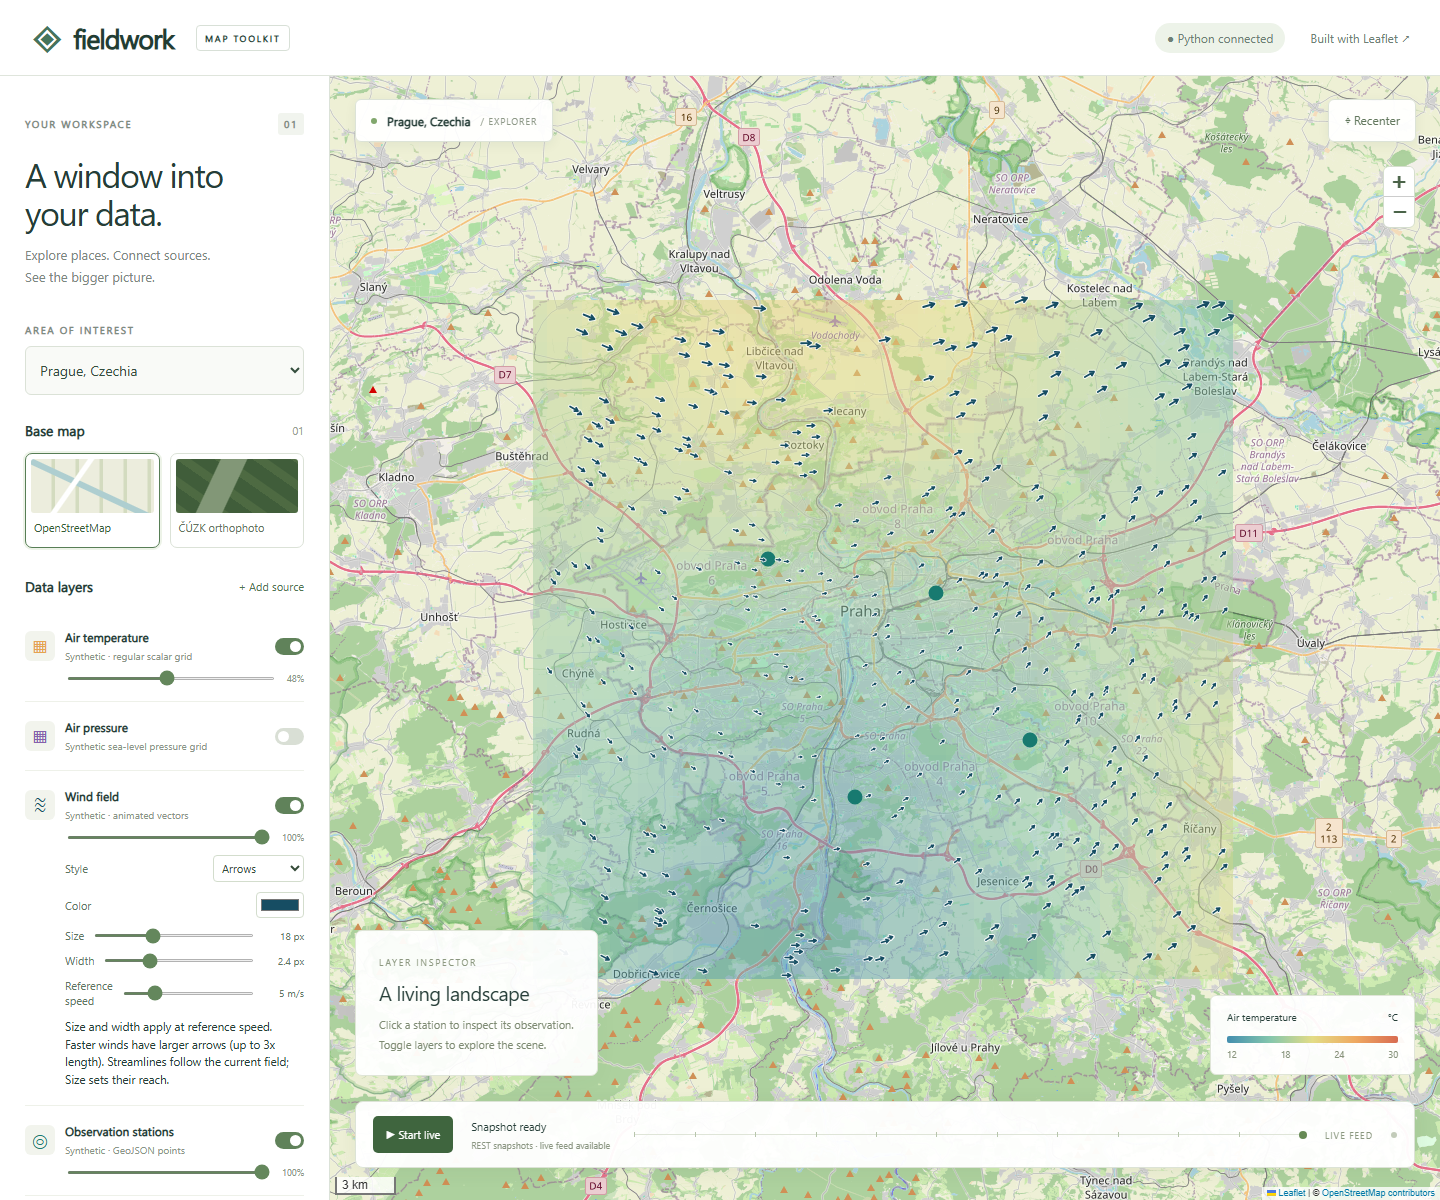
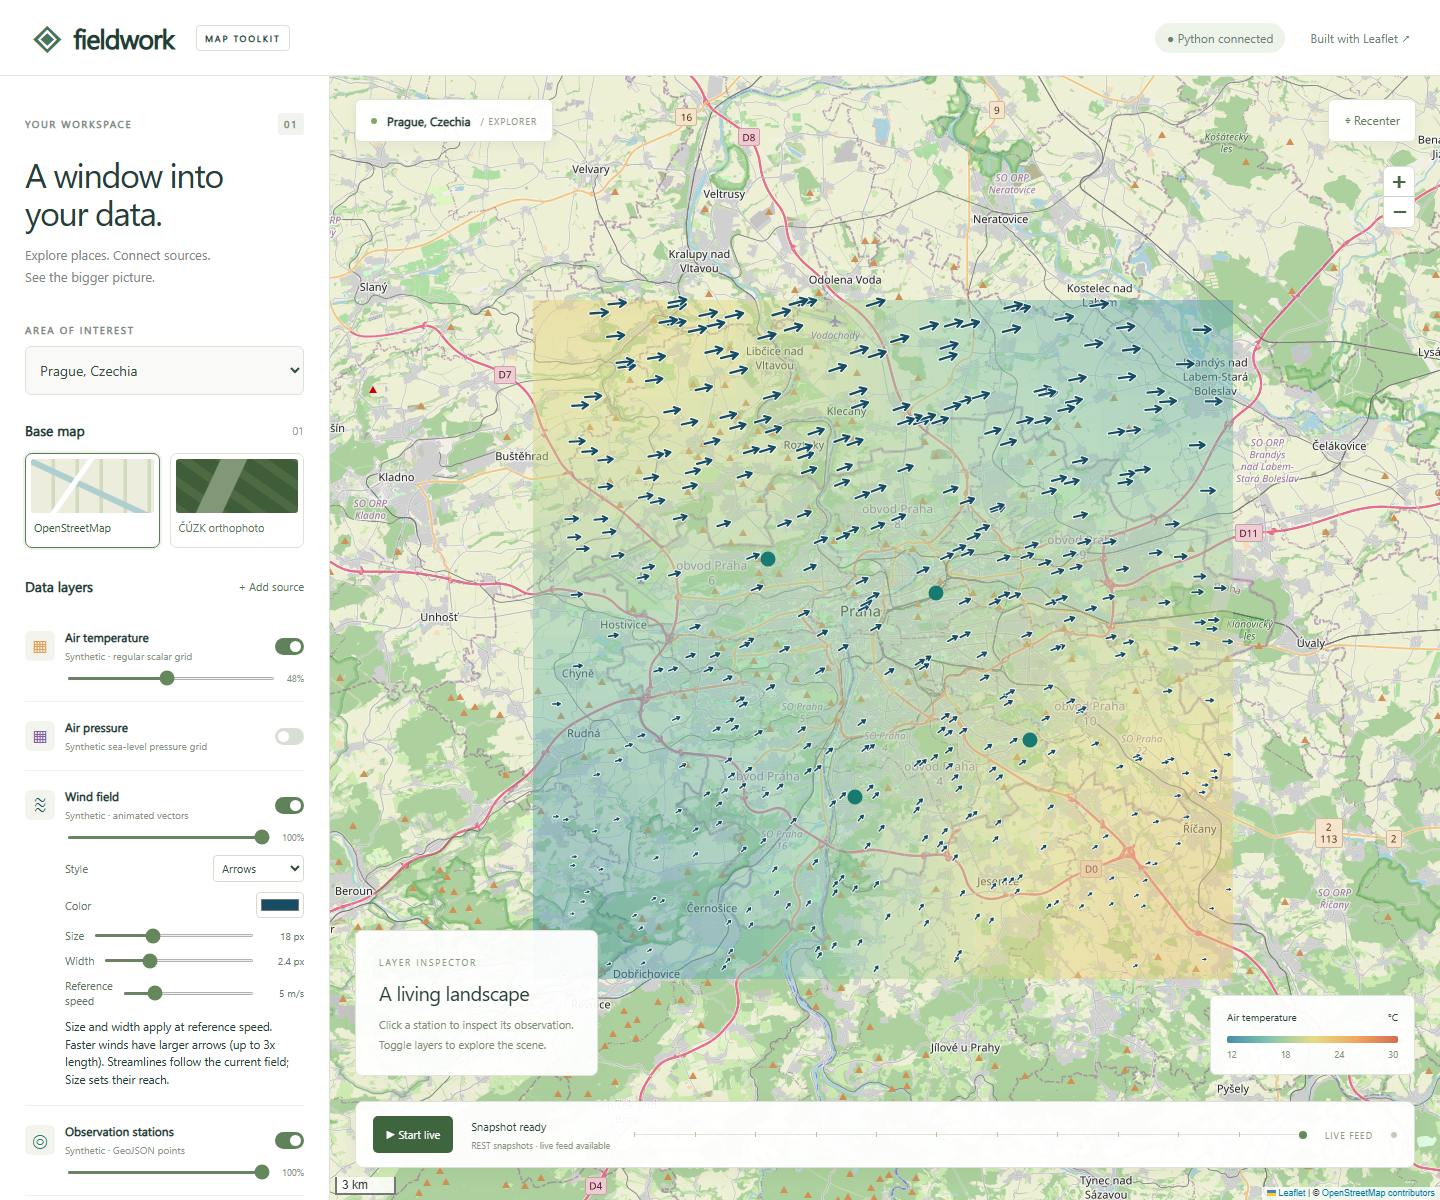
Add configurable map-only embedding and example page

diff --git a/static/app.js b/static/app.js
@@ -1,8 +1,8 @@
 import { createLayer, kmlToGeoJSON } from "./toolkit.js";
 const $ = (s) => document.querySelector(s),
   map = L.map("map", { zoomControl: false }).setView([50.0755, 14.4378], 11);
-L.control.zoom({ position: "topright" }).addTo(map);
-L.control.scale({ position: "bottomleft", imperial: false }).addTo(map);
+const zoomControl = L.control.zoom({ position: "topright" }).addTo(map);
+const scaleControl = L.control.scale({ position: "bottomleft", imperial: false }).addTo(map);
 let config,
   locationId,
   base,
@@ -52,7 +52,7 @@ function summaries() {
     for(let i=0;i<4;i++){const label=document.createElement("span");label.textContent=Math.round(range[0]+(range[1]-range[0])*i/3);labels.append(label);}
     section.append(title,gradient,labels);legend.append(section);
   }
-  legend.hidden = !legend.children.length;
+  legend.hidden = config.ui?.legend === false || !legend.children.length;
 }
 function render(s, data) {
   const next = createLayer(s.def, data, inspect);
@@ -242,6 +242,7 @@ async function select() {
   }
   await Promise.all([...states.values()].map((s) => load(s)));
   $("#update").textContent = "Snapshot ready";
+  if (config.live && backend) $("#stream").click();
 }
 $("#stream").onclick = () => {
   if (events) {
@@ -316,11 +317,26 @@ $("#source-form").onsubmit = (e) => {
     notice(err.message);
   }
 };
+function applyUI() {
+  const embed = new URLSearchParams(location.search).get("embed") === "1";
+  const ui = {header: true, sidebar: true, location: true, recenter: true, inspector: true, toolbar: true, legend: true, zoom: true, scale: true, ...config.ui};
+  if (embed) for (const key of ["header", "sidebar", "location", "recenter", "inspector", "toolbar", "legend"]) ui[key] = false;
+  config.ui = ui;
+  for (const [key, selector] of Object.entries({header:"header", sidebar:"aside", location:".map-title", recenter:"#fit", inspector:".map-caption", toolbar:".timeline", legend:"#legend"})) $(selector).hidden = !ui[key];
+  document.body.classList.toggle("no-header", !ui.header);
+  document.body.classList.toggle("no-sidebar", !ui.sidebar);
+  document.body.classList.toggle("no-toolbar", !ui.toolbar);
+  if (!ui.zoom) map.removeControl(zoomControl);
+  if (!ui.scale) map.removeControl(scaleControl);
+  map.invalidateSize();
+}
 async function init() {
   try {
-    const r = await fetch("config.json");
+    const configURL = new URLSearchParams(location.search).get("config") || "config.json";
+    const r = await fetch(configURL);
     if (!r.ok) throw Error("Could not read config.json");
     config = await r.json();
+    applyUI();
     try {
       const p = await fetch("api/config");
       backend =
@@ -352,7 +368,9 @@ async function init() {
       };
       $("#basemaps").append(b);
     }
-    chooseBase(config.basemaps[0]);
+    if (config.initialLocation) $("#location").value = config.initialLocation;
+    if (!$("#location").value) throw Error("Unknown initialLocation or empty locations");
+    chooseBase(config.basemaps.find(b=>b.id===config.initialBasemap) || config.basemaps[0]);
     for (const d of config.layers) add({ ...d });
     await select();
   } catch (e) {

diff --git a/examples/embed.html b/examples/embed.html
@@ -1,0 +1,25 @@
+<!doctype html>
+<html lang="en">
+<head>
+<meta charset="utf-8"><meta name="viewport" content="width=device-width,initial-scale=1">
+<title>Embed Fieldwork in your page</title>
+<style>
+body {margin:0;background:#f5f7f1;color:#263e38;font:16px system-ui,sans-serif}
+main {max-width:1100px;margin:40px auto;padding:0 20px}
+h1 {font-size:30px;font-weight:550} p {line-height:1.6}
+iframe {width:100%;height:560px;border:1px solid #d3ddcd;border-radius:12px;background:#e8eddf;display:block}
+pre {overflow:auto;padding:18px;background:white;border:1px solid #d3ddcd;border-radius:8px;font-size:13px}
+</style>
+</head>
+<body><main>
+<h1>Your page. Your map.</h1>
+<p>This is an ordinary page embedding Fieldwork with a map-only JSON configuration. Pan and zoom the map below: pressure, wind, stations, and a survey route are configured in <a href="embed.json">embed.json</a>.</p>
+<iframe src="../index.html?config=examples/embed.json" title="Fieldwork map of Prague" loading="lazy"></iframe>
+<p>Use an iframe wherever your page needs a map. Give it an explicit height. This example works with Flask or a static HTTP server.</p>
+<pre>&lt;iframe
+  src="/index.html?config=examples/embed.json"
+  title="Fieldwork map of Prague"
+  style="width:100%;height:560px;border:0"
+&gt;&lt;/iframe&gt;</pre>
+<p>For a viewer hosted elsewhere, use its full URL in <code>src</code>. The configuration path is relative to the viewer page. Map attribution remains visible.</p>
+</main></body></html>

diff --git a/static/style.css b/static/style.css
@@ -691,3 +691,11 @@ dialog select {
 
 .scalar-legend + .scalar-legend { margin-top: 15px; }
 .scalar-legend > div:first-child { display: flex; justify-content: space-between; }
+
+/* Layout options for embedded viewers, including narrow iframe viewports. */
+body.no-header main { height: 100dvh; }
+body.no-sidebar main { grid-template-columns: minmax(0, 1fr); }
+body.no-sidebar .map-workspace { width: 100%; height: 100%; min-height: 0; order: 0; }
+body.no-sidebar main { display: grid; overflow: hidden; }
+body.no-toolbar .map-caption, body.no-toolbar .legend { bottom: 35px; }
+body.no-header .leaflet-control-zoom { margin-top: 20px !important; }

diff --git a/tests/verify_browser.py b/tests/verify_browser.py
@@ -133,6 +133,31 @@ def main():
             page.wait_for_timeout(500)
             assert page.evaluate('document.documentElement.scrollWidth<=innerWidth')
             page.screenshot(path=str(ROOT/'docs'/'mobile.png'),full_page=True)
+            for port in (5055,5056):
+                page.set_viewport_size({'width':1000,'height':900})
+                page.goto(f'http://127.0.0.1:{port}/examples/embed.html')
+                frame=page.frame_locator('iframe')
+                frame.locator('.leaflet-wind-pane canvas').wait_for()
+                assert frame.locator('header').is_hidden()
+                assert frame.locator('aside').is_hidden()
+                assert frame.locator('.map-title').is_hidden()
+                assert frame.locator('.map-caption').is_hidden()
+                assert frame.locator('.timeline').is_hidden()
+                assert frame.locator('#legend').is_hidden()
+                assert frame.locator('.leaflet-control-attribution').is_visible()
+                assert frame.locator('.leaflet-control-zoom').is_visible()
+                assert frame.locator('#layers .layer').count()==4
+                iframe=page.locator('iframe').element_handle().content_frame()
+                assert iframe.evaluate("document.querySelector('#map').clientHeight === innerHeight")
+                page.set_viewport_size({'width':390,'height':844})
+                page.wait_for_timeout(200)
+                assert iframe.evaluate('document.documentElement.scrollWidth<=innerWidth')
+            page.set_viewport_size({'width':1000,'height':900})
+            page.screenshot(path=str(ROOT/'docs'/'embed.png'),full_page=True)
+            page.goto('http://127.0.0.1:5056/index.html?embed=1')
+            page.locator('.leaflet-wind-pane canvas').wait_for()
+            assert page.locator('aside').is_hidden()
+            assert page.locator('.timeline').is_hidden()
             assert not errors,errors
             browser.close()
             print('PASS: backend, SSE, layer controls, provider dialog, static mode, locations, mobile; no JS errors')

diff --git a/tests/test_api.py b/tests/test_api.py
@@ -59,3 +59,11 @@ def test_invalid_feature_snapshots_rejected():
     data=snapshot('stations')
     data['features'][0]['properties']['temperature']=float('nan')
     assert c.post('/api/push/stations',json=data).status_code==400
+
+def test_embed_example():
+    c=app.test_client()
+    assert c.get('/examples/embed.html').status_code==200
+    config=c.get('/examples/embed.json').json
+    assert not config['ui']['sidebar']
+    assert not config['ui']['toolbar']
+    assert len(config['layers'])==4

diff --git a/app.py b/app.py
@@ -22,6 +22,10 @@ def index():
 def static_config():
     return send_from_directory(ROOT, "config.json")
 
+@app.get("/examples/<path:filename>")
+def examples(filename):
+    return send_from_directory(ROOT / "examples", filename)
+
 @app.get("/api/config")
 def config():
     return jsonify(json.loads((ROOT / "config.json").read_text(encoding="utf-8")))

diff --git a/README.md b/README.md
@@ -186,3 +186,42 @@ Enable **Air pressure** for a synthetic sea-level pressure surface in hPa, using
 Scalar layer definitions can now set `range: [min, max]` and `palette: ["#355c9a", "#d9e0eb", "#87468e"]` using RGB hex colors. These options control both raster colors and the matching legend.
 
 Wind glyph dimensions are in CSS screen pixels, independent of map zoom. The wind canvas sits in a viewport pane outside Leaflet's transformed map pane. During map movement it is briefly hidden and rebuilt at the new view; speed scaling continues to reflect the underlying field.
+
+## Embed in your own page
+
+Open **http://127.0.0.1:5000/examples/embed.html** (or port 8000 with a static server) for a complete host-page example. It embeds the viewer without the Fieldwork header/sidebar, location panel, description inspector, legend or live toolbar. Attribution remains visible; zoom and scale controls are retained.
+
+```html
+<iframe
+  src="/index.html?config=examples/embed.json"
+  title="Fieldwork map of Prague"
+  style="width:100%;height:560px;border:0"
+></iframe>
+```
+
+`examples/embed.json` is a standalone configuration containing locations, basemaps, active layers, source URLs, and styles, including pressure palette/range and wind appearance. Copy it for another view, then set `?config=path/to/your.json`. Config paths and relative layer URLs resolve against the viewer document, not the host page or the config file. If Fieldwork is hosted under a subdirectory, include that subdirectory in the iframe URL. For cross-origin embedding, use the full viewer URL; the host does not need access to iframe internals. The viewer host must permit framing and external data services must permit CORS.
+
+The regular `config.json` also supports these options:
+
+```json
+{
+  "initialLocation": "prague",
+  "initialBasemap": "osm",
+  "live": false,
+  "ui": {
+    "header": false,
+    "sidebar": false,
+    "location": false,
+    "recenter": false,
+    "inspector": false,
+    "toolbar": false,
+    "legend": false,
+    "zoom": true,
+    "scale": true
+  }
+}
+```
+
+This is the UI portion of a config: include `locations`, `basemaps` and `layers` as shown in the full example. Each `ui` option defaults to true. Layer `enabled`, `url`, `type`, `opacity`, `color`, `range`, `palette`, and wind options choose the visible data and presentation. Set `live: true` to start backend streaming automatically even with a hidden toolbar; static mode retains snapshots. As a quick alternative, `index.html?embed=1` hides the surrounding UI using the default config; it can be combined with `?config=examples/embed.json&embed=1`.
+
+If you prefer direct JavaScript integration without an iframe, create your own Leaflet map element and import `createLayer` from `static/toolkit.js` as shown under Configuration and reuse. Your host page owns its layout and controls.
